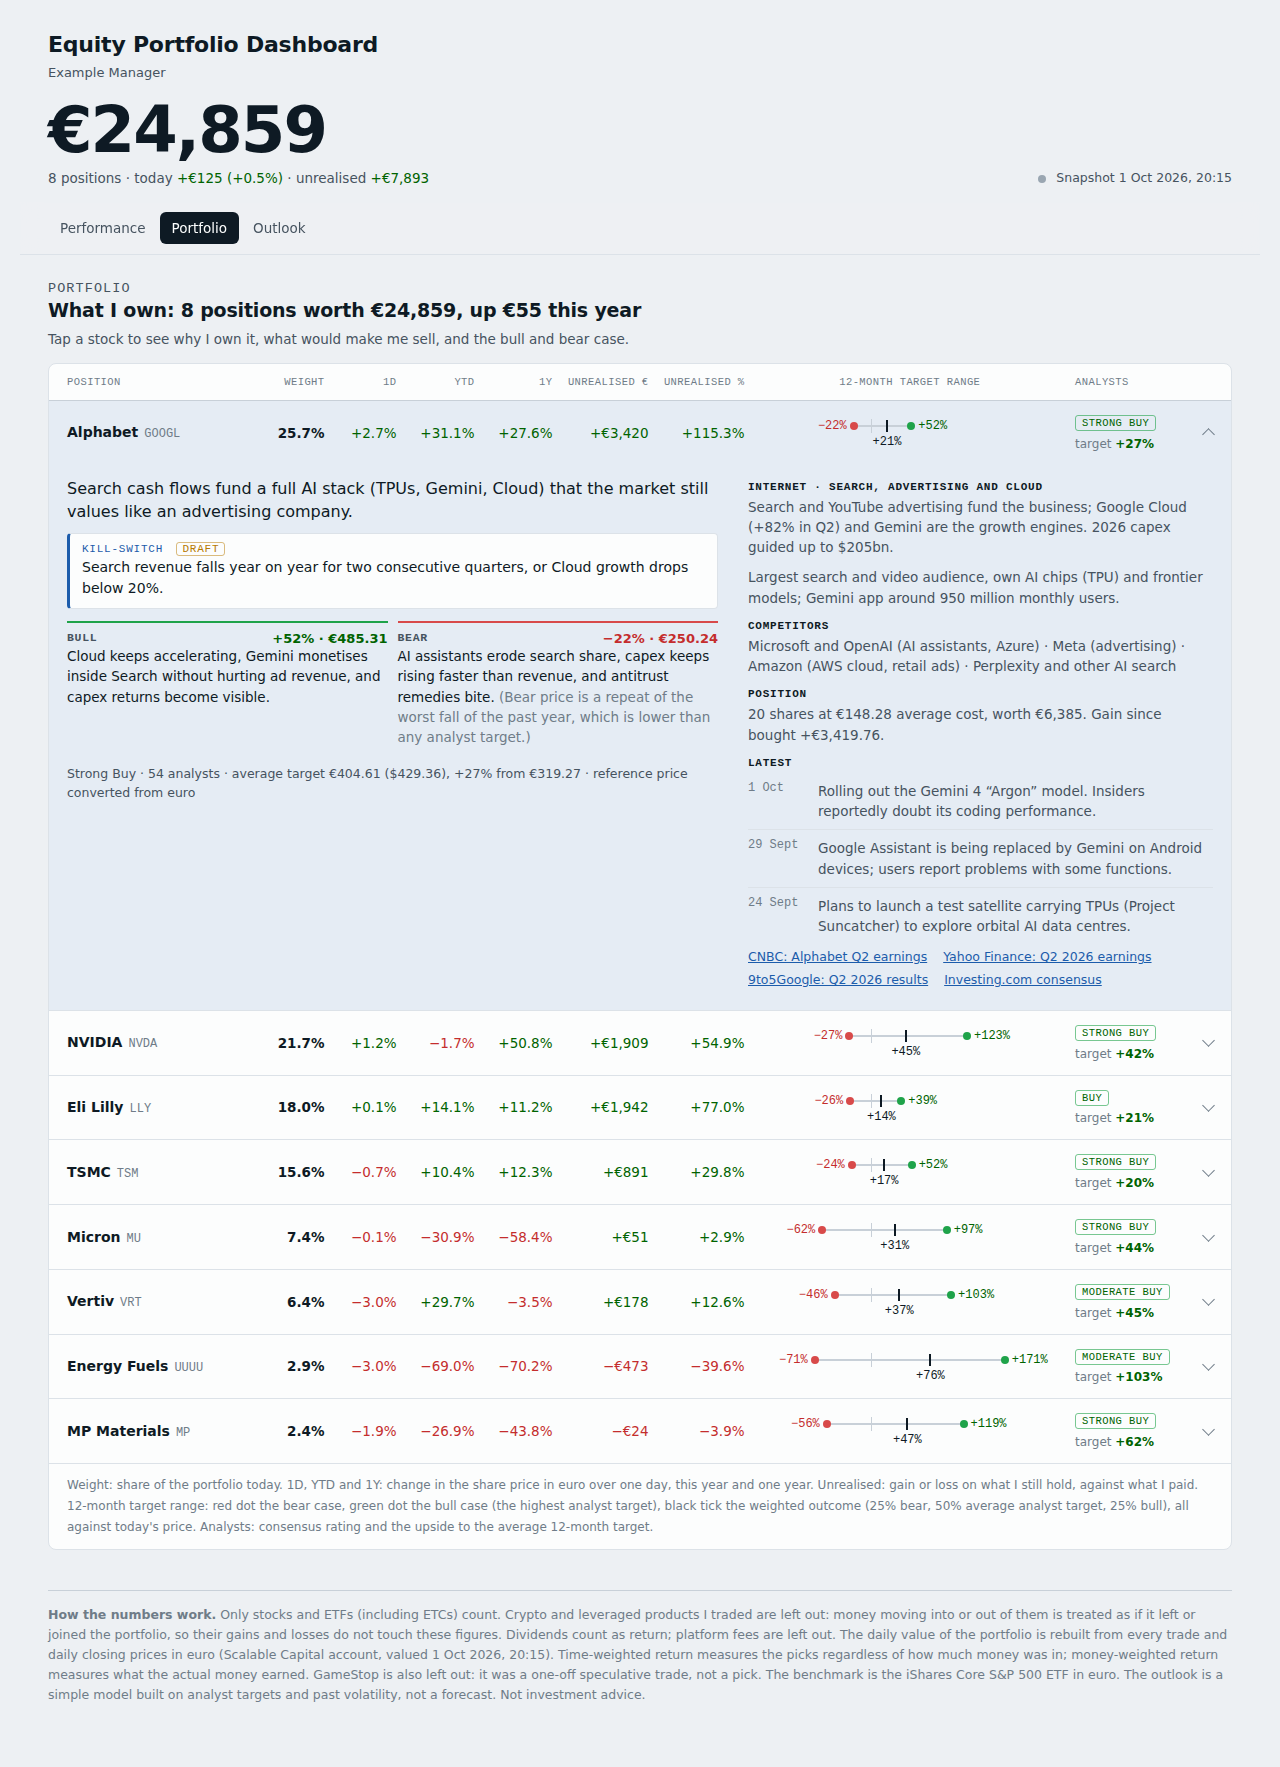
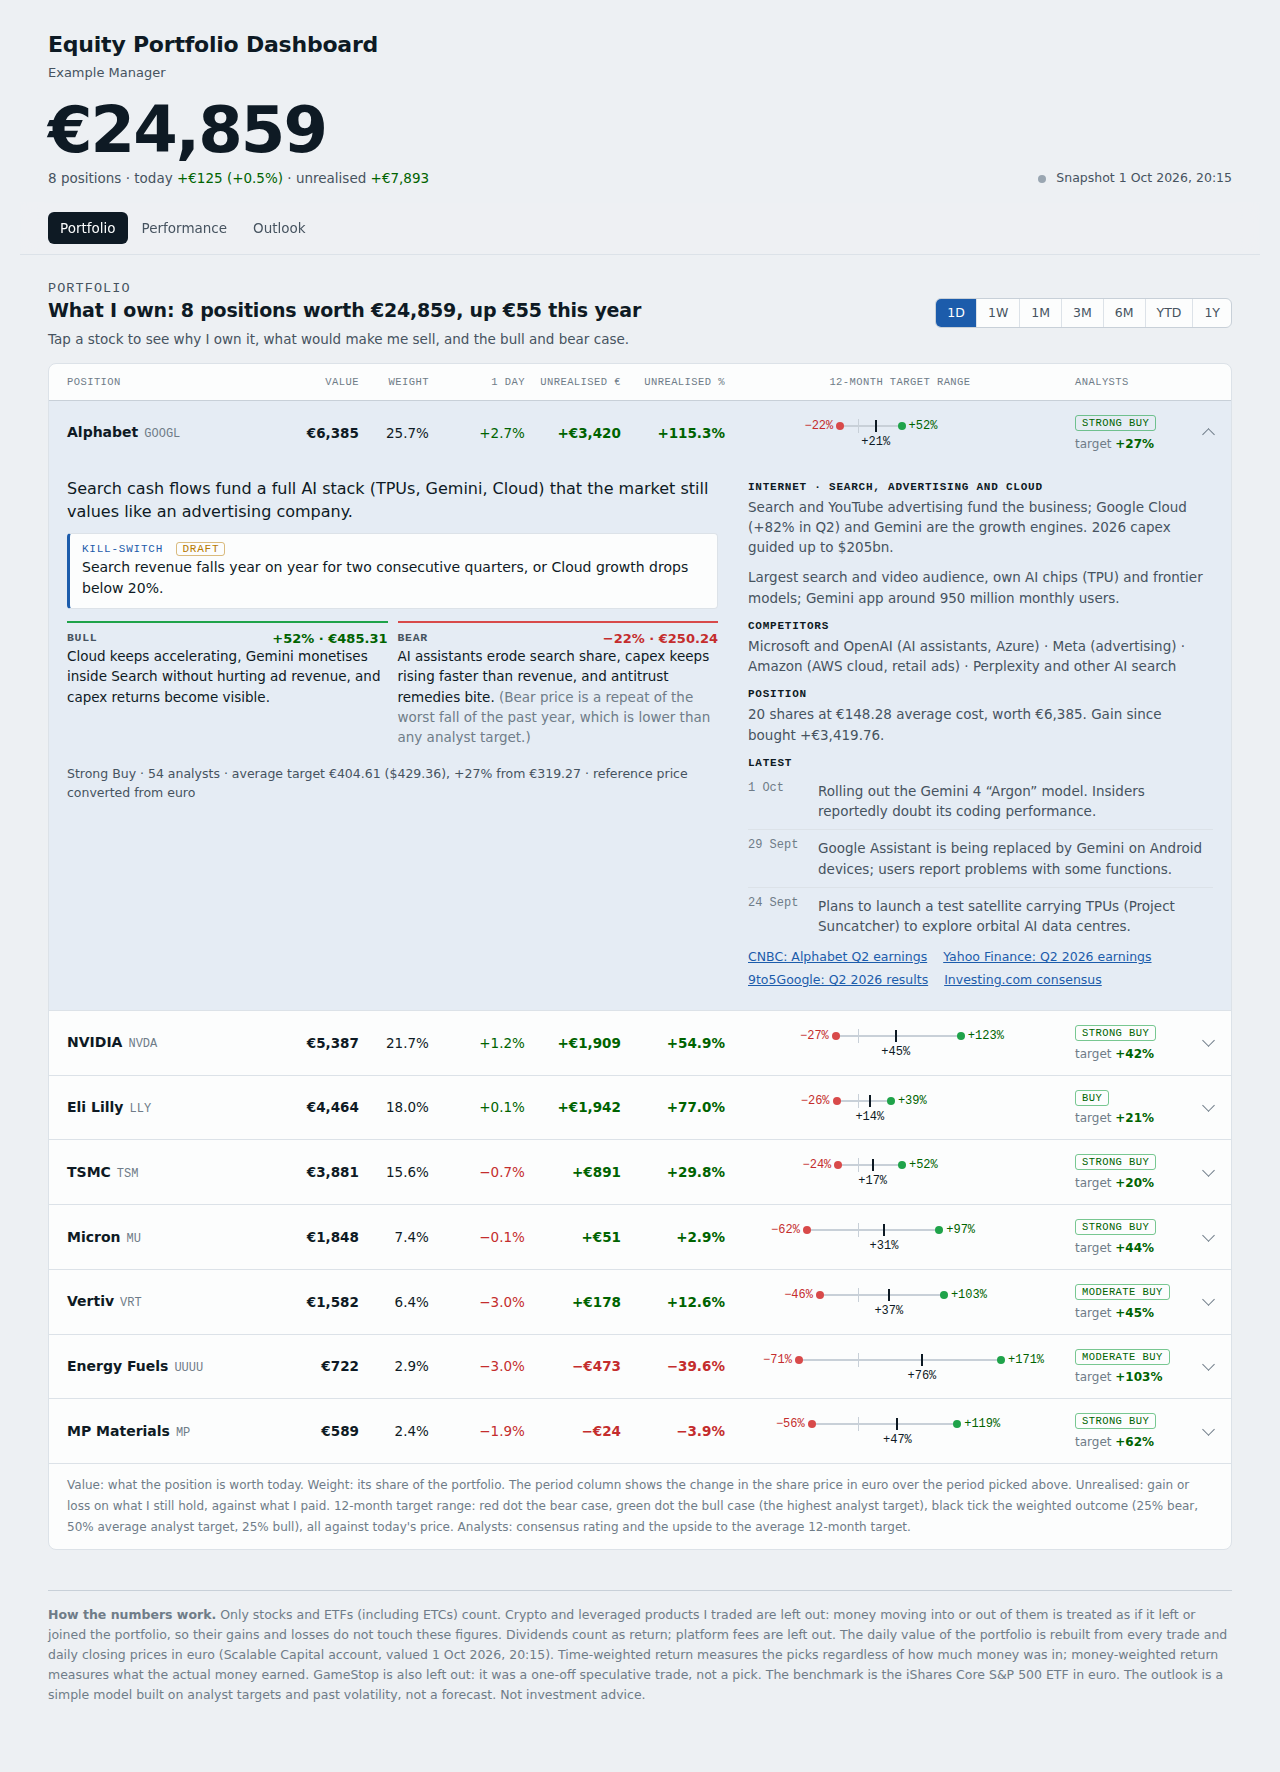
Portfolio first: opens on Portfolio, value column, one period column with a toggle
- Tabs ordered Portfolio, Performance, Outlook; the page always opens on Portfolio
- Each position shows its value in euro (bold) next to its weight
- One share-price column with a 1D/1W/1M/3M/6M/YTD/1Y toggle
- Unrealised gain in euro and per cent in bold
- Render test checks the start tab

Claude-Session: https://claude.ai/code/session_01ABTLXaQmWwDDpoTxDco2CE

diff --git a/src/page/views.js b/src/page/views.js
@@ -46,7 +46,6 @@ function setTab(id, push) {
   if (!TABS.some((t) => t[0] === id)) return;
   state.tab = id; renderTabs(); hideTip();
   if (push) { try { history.replaceState(null, '', '#' + id); } catch (e) { /* hash is a convenience */ } window.scrollTo({ top: 0, behavior: 'auto' }); }
-  try { localStorage.setItem('pm-tab', id); } catch (e) { /* storage is optional */ }
 }
 
 /* =====================================================================
@@ -148,6 +147,7 @@ function liveResearch(h) {
     <p class="foot-n">Web research ${esc(tfmt(c.updatedAt))}${age > 2 ? `, ${Math.floor(age)} days old` : ''}.</p>`;
 }
 
+const BOOK_PERIODS = [['1D', '1 day'], ['1W', '1 week'], ['1M', '1 month'], ['3M', '3 months'], ['6M', '6 months'], ['YTD', 'Year to date'], ['1Y', '1 year']];
 const ratingCls = (r) => (/sell|under/i.test(r) ? 'neg' : /buy|outperform|overweight/i.test(r) ? 'pos' : 'hold');
 function renderBook() {
   const root = $('#t-book'); unmountWithin(root);
@@ -156,25 +156,26 @@ function renderBook() {
   const dLo = Math.min(-0.2, ...cov.map((h) => h.sc.bear)), dHi = Math.max(0.2, ...cov.map((h) => h.sc.bull));
   const PX = (v) => 19 + ((v - dLo) / (dHi - dLo)) * 62; // the outer fifths hold the bear and bull labels
   const pc = (h, k) => { const r = perfOf(h, k); return r == null ? '<span class="muted">–</span>' : pctSpan(r, 1); };
+  const bp = BOOK_PERIODS.some((p) => p[0] === state.bp) ? state.bp : '1D';
   const ytd = C_sum(M.H.map((h) => { const r = perfOf(h, 'YTD'); return r == null ? 0 : h.value - h.value / (1 + r); }));
   if (state.open && !holdingBy(state.open)) state.open = null;
 
   root.innerHTML = `
-  <div class="lede"><div><p class="kicker">Portfolio</p><h2>What I own: ${M.H.length} positions worth ${fmtEUR0(V)}, ${ytd >= 0 ? 'up' : 'down'} ${fmtEUR0(Math.abs(ytd))} this year</h2><p>Tap a stock to see why I own it, what would make me sell, and the bull and bear case.</p></div></div>
+  <div class="lede"><div><p class="kicker">Portfolio</p><h2>What I own: ${M.H.length} positions worth ${fmtEUR0(V)}, ${ytd >= 0 ? 'up' : 'down'} ${fmtEUR0(Math.abs(ytd))} this year</h2><p>Tap a stock to see why I own it, what would make me sell, and the bull and bear case.</p></div>
+    <div class="seg" role="group" aria-label="Share-price period">${BOOK_PERIODS.map(([k, l]) => `<button data-bp="${k}" aria-pressed="${k === bp}">${k}</button>`).join('')}</div></div>
   <div class="panel flat">
-    <div class="book-h"><span>Position</span><span>Weight</span><span class="c-d">1D</span><span class="c-d">YTD</span><span>1Y</span><span class="c-m">Unrealised €</span><span>Unrealised %</span><span class="c-m c-rng">12-month target range</span><span class="c-m">Analysts</span><span></span></div>
+    <div class="book-h"><span>Position</span><span>Value</span><span class="c-d">Weight</span><span>${esc(BOOK_PERIODS.find((p) => p[0] === bp)[1])}</span><span class="c-m">Unrealised €</span><span>Unrealised %</span><span class="c-m c-rng">12-month target range</span><span class="c-m">Analysts</span><span></span></div>
     ${M.H.map((h) => {
       const sc = h.sc, cons = h.research && h.research.cons, open = state.open === h.isin;
       const mid = sc ? expOf(sc, PRESETS.analyst.p) : null; // 25% bear, 50% average target, 25% bull
       return `<div class="posn${open ? ' open' : ''}" data-i="${h.isin}">
         <button class="pos-row" aria-expanded="${open}" aria-controls="pd-${h.isin}">
           <span class="nm"><b>${esc(h.name)}</b><small>${esc(h.ticker || '')}</small></span>
-          <span class="n"><b>${(h.weight * 100).toFixed(1)}%</b></span>
-          <span class="n c-d">${pc(h, '1D')}</span>
-          <span class="n c-d">${pc(h, 'YTD')}</span>
-          <span class="n">${pc(h, '1Y')}</span>
-          <span class="n c-m">${h.pnl != null ? eur0Span(h.pnl) : '–'}</span>
-          <span class="n">${h.pnl != null ? pctSpan(h.pnlPct, 1) : '–'}</span>
+          <span class="n"><b>${fmtEUR0(h.value)}</b></span>
+          <span class="n c-d">${(h.weight * 100).toFixed(1)}%</span>
+          <span class="n">${pc(h, bp)}</span>
+          <span class="n c-m"><b>${h.pnl != null ? eur0Span(h.pnl) : '–'}</b></span>
+          <span class="n"><b>${h.pnl != null ? pctSpan(h.pnlPct, 1) : '–'}</b></span>
           <span class="c-m c-rng">${sc ? `<span class="rng" role="img" aria-label="Bear ${fmtSignedPct(sc.bear, 0)}, weighted ${fmtSignedPct(mid, 0)}, bull ${fmtSignedPct(sc.bull, 0)}"><i class="z" style="left:${PX(0)}%"></i><i class="seg" style="left:${PX(sc.bear)}%;width:${PX(sc.bull) - PX(sc.bear)}%"></i><i class="d bear" style="left:${PX(sc.bear)}%"></i><i class="t" style="left:${PX(mid)}%"></i><i class="d bull" style="left:${PX(sc.bull)}%"></i><em class="lb neg" style="right:calc(${100 - PX(sc.bear)}% + 7px)">${fmtSignedPct(sc.bear, 0)}</em><em class="lb bs" style="left:${PX(mid)}%">${fmtSignedPct(mid, 0)}</em><em class="lb pos" style="left:calc(${PX(sc.bull)}% + 7px)">${fmtSignedPct(sc.bull, 0)}</em></span>` : '<small class="muted">no analyst coverage</small>'}</span>
           <span class="c-m cons">${cons && sc ? `<span class="rt ${ratingCls(cons.rating)}">${esc(cons.rating)}</span><small>target <b class="${cls(sc.base)}">${fmtSignedPct(sc.base, 0)}</b></small>` : '<small class="muted">–</small>'}</span>
           <span class="chev" aria-hidden="true"></span>
@@ -182,9 +183,10 @@ function renderBook() {
         <div class="pos-d" id="pd-${h.isin}" ${open ? '' : 'hidden'}>${open ? positionDetail(h) : ''}</div>
       </div>`;
     }).join('')}
-    <div class="book-f"><span class="foot-n">Weight: share of the portfolio today. 1D, YTD and 1Y: change in the share price in euro over one day, this year and one year. Unrealised: gain or loss on what I still hold, against what I paid. 12-month target range: red dot the bear case, green dot the bull case (the highest analyst target), black tick the weighted outcome (25% bear, 50% average analyst target, 25% bull), all against today's price. Analysts: consensus rating and the upside to the average 12-month target.</span></div>
+    <div class="book-f"><span class="foot-n">Value: what the position is worth today. Weight: its share of the portfolio. The period column shows the change in the share price in euro over the period picked above. Unrealised: gain or loss on what I still hold, against what I paid. 12-month target range: red dot the bear case, green dot the bull case (the highest analyst target), black tick the weighted outcome (25% bear, 50% average analyst target, 25% bull), all against today's price. Analysts: consensus rating and the upside to the average 12-month target.</span></div>
   </div>`;
 
+  $$('#t-book [data-bp]').forEach((b) => b.addEventListener('click', () => { state.bp = b.dataset.bp; renderBook(); }));
   $$('#t-book .pos-row').forEach((b) => b.addEventListener('click', () => {
     const id = b.parentElement.dataset.i;
     state.open = state.open === id ? null : id; renderBook();

diff --git a/src/page/style.css b/src/page/style.css
@@ -442,9 +442,9 @@ ul.criteria li span, ul.rejected li span { color: var(--ink2); }
 .lesson .k, .kill .k { display: block; font: 500 11px var(--mono); letter-spacing: 0.07em; text-transform: uppercase; color: var(--accent); margin-bottom: 2px; }
 
 /* book */
-.book-h, .pos-row { display: grid; grid-template-columns: minmax(130px, 1.2fr) 52px 60px 66px 66px 84px 84px minmax(230px, 1.9fr) 112px 14px; gap: 12px; align-items: center; }
+.book-h, .pos-row { display: grid; grid-template-columns: minmax(130px, 1.2fr) 74px 58px 84px 84px 92px minmax(230px, 1.9fr) 112px 14px; gap: 12px; align-items: center; }
 .book-h { padding: 12px 18px; border-bottom: 1px solid var(--line2); font: 500 10.5px var(--mono); letter-spacing: 0.04em; text-transform: uppercase; color: var(--ink3); align-items: end; }
-.book-h span:nth-child(n+2) { text-align: right; } .book-h span.c-rng { text-align: center; } .book-h span:nth-child(9) { text-align: left; }
+.book-h span:nth-child(n+2) { text-align: right; } .book-h span.c-rng { text-align: center; } .book-h span:nth-child(8) { text-align: left; }
 .posn { border-bottom: 1px solid var(--line); }
 .pos-row { width: 100%; border: 0; background: none; text-align: left; padding: 12px 18px; }
 .pos-row:hover { background: var(--inset); }
@@ -471,8 +471,8 @@ ul.criteria li span, ul.rejected li span { color: var(--ink2); }
 .rng .lb.bs { top: 17px; transform: translateX(-50%); color: var(--ink); }
 .chev { width: 9px; height: 9px; border-right: 1.5px solid var(--ink3); border-bottom: 1.5px solid var(--ink3); transform: rotate(45deg); justify-self: end; margin-top: -4px; transition: transform 0.15s; }
 .posn.open .chev { transform: rotate(-135deg); margin-top: 4px; }
-@media (max-width: 1120px) { .book-h, .pos-row { grid-template-columns: minmax(120px, 1.2fr) 52px 66px 84px 84px minmax(220px, 1.9fr) 104px 14px; } .c-d { display: none; } }
-@media (max-width: 860px) { .book-h, .pos-row { grid-template-columns: minmax(0, 1.4fr) 52px 66px 84px 14px; gap: 10px; } .c-d, .c-m, .pos-row .nm small { display: none; } .pos-row, .book-h { padding-inline: 14px; } }
+@media (max-width: 1120px) { .book-h, .pos-row { grid-template-columns: minmax(120px, 1.2fr) 74px 84px 84px 92px minmax(220px, 1.9fr) 104px 14px; } .c-d { display: none; } }
+@media (max-width: 860px) { .book-h, .pos-row { grid-template-columns: minmax(0, 1.4fr) 68px 62px 68px 14px; gap: 8px; } .c-d, .c-m, .pos-row .nm small { display: none; } .pos-row, .book-h { padding-inline: 14px; } }
 .book-f { padding: 10px 18px 12px; } .book-f .foot-n { margin: 0; }
 .pos-d { padding: 4px 18px 20px; background: var(--accent-soft); }
 @media (max-width: 820px) { .pos-d { padding-inline: 14px; } }

diff --git a/tests/render.js b/tests/render.js
@@ -10,7 +10,7 @@ const outDir = path.resolve(process.argv[3] || path.join(root, 'test-output'));
 fs.mkdirSync(outDir, { recursive: true });
 const wrapped = path.join(outDir, '_wrapped.html');
 fs.writeFileSync(wrapped, `<!doctype html><html><head><meta charset="utf-8"><meta name="viewport" content="width=device-width,initial-scale=1,viewport-fit=cover"><style>:root{color-scheme:light}body{margin:0;font:14px system-ui,sans-serif;background:#f9f9f7}img{max-width:100%}[hidden]{display:none!important}</style></head><body>${fs.readFileSync(page, 'utf8')}</body></html>`);
-const TABS = ['record', 'book', 'risk'];
+const TABS = ['book', 'record', 'risk'];
 (async () => {
   const browser = await chromium.launch({ args: ['--no-sandbox'] });
   let failed = 0;
@@ -21,8 +21,9 @@ const TABS = ['record', 'book', 'risk'];
     p.on('pageerror', (e) => errs.push('PAGEERROR ' + e.message));
     p.on('console', (m) => { if (m.type() === 'error' && !/ERR_FAILED|ERR_BLOCKED/.test(m.text())) errs.push(m.text()); });
     await p.route('**/*', (r) => (r.request().url().startsWith('file:') ? r.continue() : r.abort()));
-    await p.goto('file://' + wrapped);
+    await p.goto('file://' + wrapped + '#risk'); // a hash must not override the Portfolio start tab
     await p.waitForTimeout(500);
+    if (await p.evaluate(() => document.getElementById('t-book').hidden)) errs.push('page did not open on the Portfolio tab');
     for (const t of TABS) {
       await p.click(`#tab-${t}`);
       if (t === 'book') await p.click('#t-book .pos-row');

diff --git a/src/page/model.js b/src/page/model.js
@@ -16,8 +16,8 @@ const px = (x) => (x >= 100 ? fmtNum(x, 2) : x >= 10 ? fmtNum(x, 2) : fmtNum(x, 
 const dayMs = (s) => Date.parse(s.length === 10 ? s + 'T12:00:00Z' : s.length === 16 ? s + ':00Z' : s);
 
 /* ---------- state ---------- */
-const TABS = [['record', 'Performance'], ['book', 'Portfolio'], ['risk', 'Outlook']];
-const state = { tab: 'record', bench: 'SPX', tf: '1Y', measure: 'twr', hz: 12, open: null, preset: 'analyst', mode: 'snapshot', statusMsg: '', tableView: {}, commentary: {}, dbReady: false };
+const TABS = [['book', 'Portfolio'], ['record', 'Performance'], ['risk', 'Outlook']];
+const state = { tab: 'book', bp: '1D', bench: 'SPX', tf: '1Y', measure: 'twr', hz: 12, open: null, preset: 'analyst', mode: 'snapshot', statusMsg: '', tableView: {}, commentary: {}, dbReady: false };
 /* scenario probabilities: bull, base, bear */
 const PRESETS = { analyst: { label: 'Consensus', p: [0.25, 0.5, 0.25] }, cautious: { label: 'Cautious', p: [0.15, 0.45, 0.4] }, stress: { label: 'Stress', p: [0.05, 0.35, 0.6] } };
 const REF_MU = 0.07; // assumed long-run annual return for the benchmark reference

diff --git a/src/page/live.js b/src/page/live.js
@@ -96,9 +96,9 @@ function render() {
 }
 async function boot() {
   DATA_SNAP = prepare(DATA); DATA_ACTIVE = DATA_SNAP;
-  let start = (location.hash || '').slice(1);
-  if (!TABS.some((t) => t[0] === start)) { try { start = localStorage.getItem('pm-tab') || ''; } catch (e) { start = ''; } }
-  if (TABS.some((t) => t[0] === start)) state.tab = start;
+  // always open on the Portfolio tab, whatever the link's hash or the last visit
+  state.tab = 'book';
+  try { if (location.hash) history.replaceState(null, '', location.pathname + location.search); } catch (e) { /* hash is a convenience */ }
   render();
   window.addEventListener('hashchange', () => setTab(location.hash.slice(1), false));
   watchResearch();

diff --git a/README.md b/README.md
@@ -6,12 +6,12 @@ happen next. Only stocks and ETFs count; crypto, leveraged products and the one-
 (see *Method*).
 
 The header shows the portfolio's value today in large type, with today's change and the unrealised gain. The page
-answers three questions, one per tab:
+answers three questions, one per tab. It always opens on Portfolio:
 
 | Tab | Question it answers | What is on it |
 |---|---|---|
+| **Portfolio** | What is owned and how is each position doing? | Per position: value in euro, weight, the share-price change over a period picked with a toggle (1D, 1W, 1M, 3M, 6M, YTD, 1Y), unrealised gain in euro and in per cent, the 12-month target range (bear, weighted outcome, bull) and the consensus rating with the upside to the average target. Each opens to the thesis, the written kill-switch, bull and bear cases, industry and competitors, and the latest news |
 | **Performance** | Have the picks made money, and against which index? | Four headline figures; a daily chart of time-weighted (TWR) or money-weighted (MWR) performance for 1M, 3M, 6M, YTD, 1Y, 2025, 2024 or Max (since inception) against the S&P 500, the only benchmark; *Every period at a glance* compares every period with it |
-| **Portfolio** | What is owned and how is each position doing? | Per position: weight, share-price change over 1D, YTD and 1Y, unrealised gain in euro and in per cent, the 12-month target range (bear, weighted outcome, bull) and the consensus rating with the upside to the average target. Each opens to the thesis, the written kill-switch, bull and bear cases, industry and competitors, and the latest news |
 | **Outlook** | What could happen next? | A horizon toggle (3M, 6M, 1Y, 2Y, 3Y) and three sets of scenario odds (Consensus, Cautious, Stress) drive the expected return, the 9-in-10 range of outcomes, the chance of beating the S&P 500, volatility and beta, and a range-of-outcomes chart |
 
 ![Performance tab, built from the synthetic sample](docs/sample-record.png)
